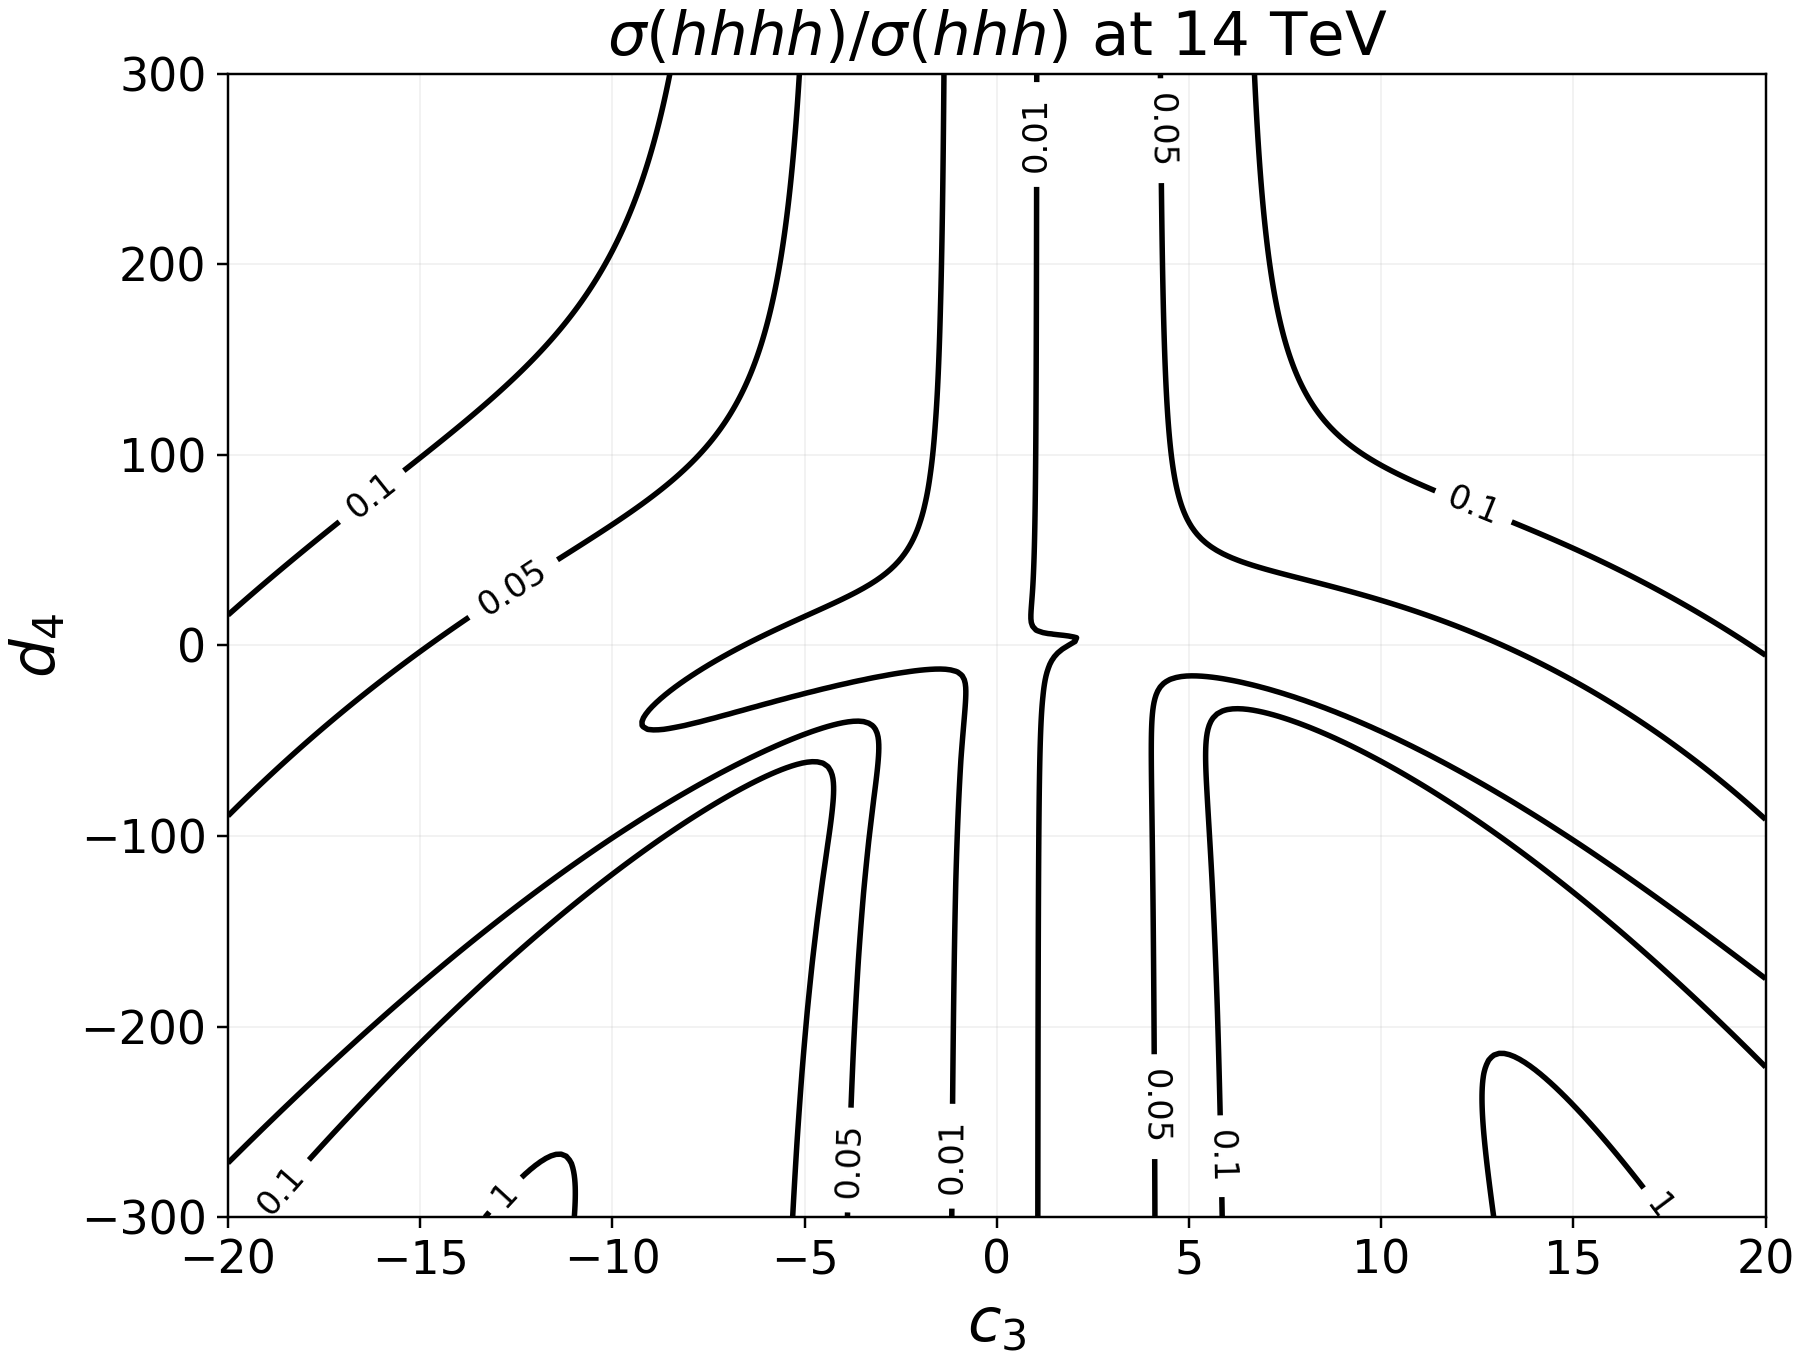
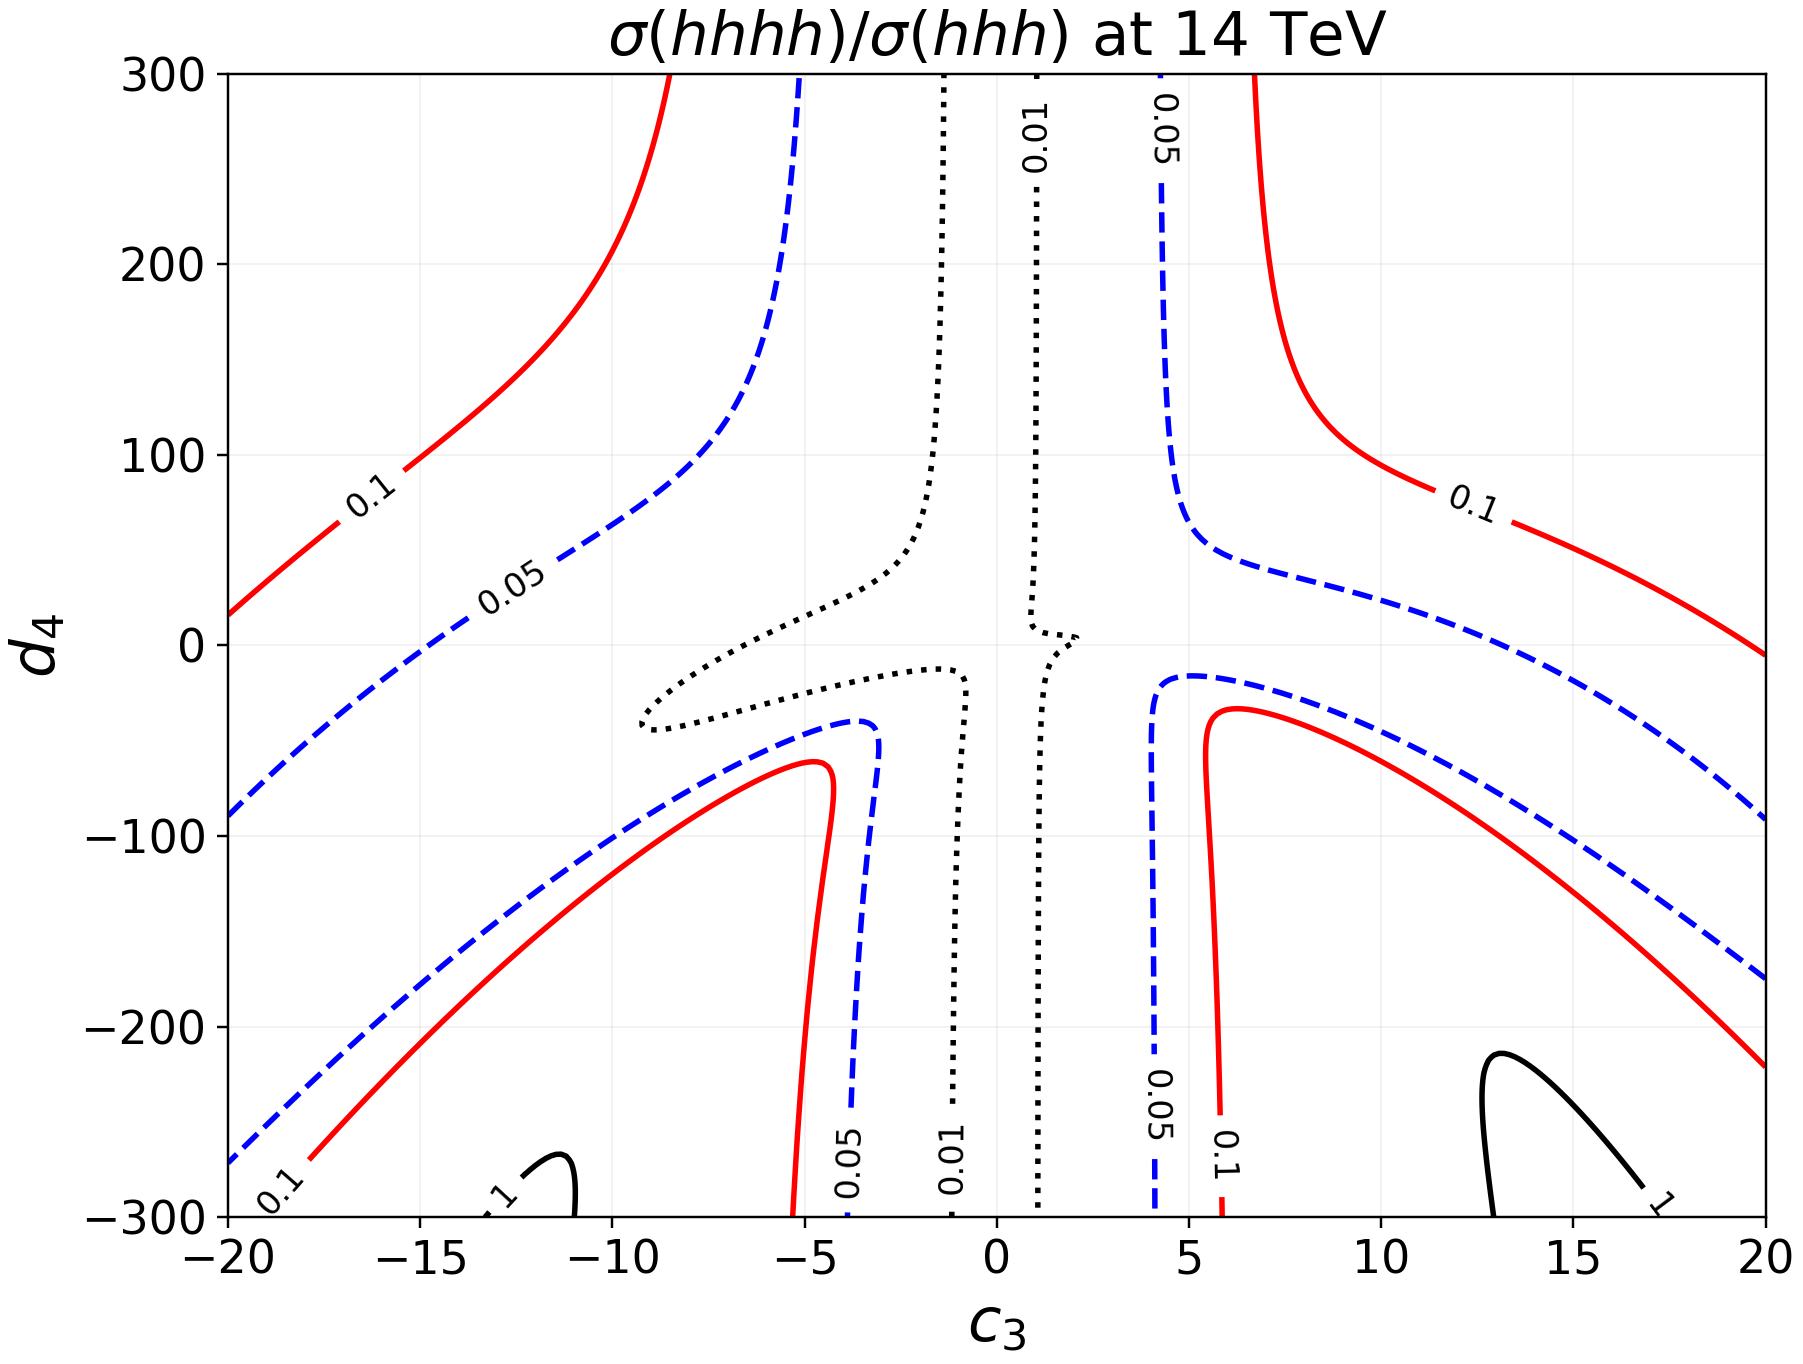
Style ratio contour levels

diff --git a/Code/xgboost_root_varfiles_module.py b/Code/xgboost_root_varfiles_module.py
@@ -1770,6 +1770,12 @@ DEFAULT_HHH_XSEC_WIDE_RUNNUM = "3"
 DEFAULT_HHH_XSEC_EXPECTED_WIDE_RUNS = 11
 DEFAULT_HHH_XSEC_EXCLUDED_RUNNUMS = ("1",)
 DEFAULT_HHHH_OVER_HHH_RATIO_LEVELS = (0.01, 0.05, 0.1, 1.0, 10.0)
+DEFAULT_HHHH_OVER_HHH_RATIO_CONTOUR_STYLES = {
+    0.01: {"color": "black", "linestyle": "dotted"},
+    0.05: {"color": "blue", "linestyle": "dashed"},
+    0.1: {"color": "red", "linestyle": "solid"},
+}
+DEFAULT_HHHH_OVER_HHH_RATIO_FALLBACK_CONTOUR_STYLE = {"color": "black", "linestyle": "solid"}
 DEFAULT_HBB_BRANCHING_RATIO = 0.5824
 DEFAULT_HHHH_PERTURBATIVITY_MH = 125.0
 DEFAULT_HHHH_PERTURBATIVITY_V = 246.0
@@ -2433,6 +2439,13 @@ def _format_hhhh_xsec_level(value):
     return "%.2g" % value
 
 
+def _hhhh_over_hhh_ratio_contour_style(level):
+    style = DEFAULT_HHHH_OVER_HHH_RATIO_CONTOUR_STYLES.get(float(level))
+    if style is None:
+        style = DEFAULT_HHHH_OVER_HHH_RATIO_FALLBACK_CONTOUR_STYLE
+    return dict(style)
+
+
 def _hhhh_perturbativity_partial_wave(s, c3_grid, d4_grid):
     k3_squared = (1.0 + c3_grid) ** 2
     k4 = 1.0 + d4_grid
@@ -2999,12 +3012,16 @@ def _write_hhhh_over_hhh_ratio_contour_plot(
         ax.grid(alpha=0.2, linewidth=0.5)
 
         if visible_levels:
+            contour_styles = [_hhhh_over_hhh_ratio_contour_style(level) for level in visible_levels]
+            contour_colors = [style["color"] for style in contour_styles]
+            contour_linestyles = [style["linestyle"] for style in contour_styles]
             contour = ax.contour(
                 c3_grid,
                 d4_grid,
                 ratio_masked,
                 levels=visible_levels,
-                colors=["black"],
+                colors=contour_colors,
+                linestyles=contour_linestyles,
                 linewidths=1.8,
             )
             ax.clabel(
@@ -3035,6 +3052,10 @@ def _write_hhhh_over_hhh_ratio_contour_plot(
                 "ratio_max": ratio_max,
                 "contour_levels_requested": [float(level) for level in ratio_levels],
                 "contour_levels_drawn": visible_levels,
+                "contour_level_styles": {
+                    _format_hhhh_xsec_level(level): _hhhh_over_hhh_ratio_contour_style(level)
+                    for level in visible_levels
+                },
                 "positive_finite_grid_points": int(np.count_nonzero(valid_ratio)),
                 "grid_points": int(ratio.size),
             }

diff --git a/tests/test_xsec_overlay_band_wiring.py b/tests/test_xsec_overlay_band_wiring.py
@@ -151,6 +151,9 @@ class HHHHXsecOverlayBandWiringTests(unittest.TestCase):
         analyzer_text = (REPO_DIR / "4h_analyzer.py").read_text()
         self.assertIn("DEFAULT_HHH_XSEC_SOURCE_DIR", module_text)
         self.assertIn("DEFAULT_HHHH_OVER_HHH_RATIO_LEVELS = (0.01, 0.05, 0.1, 1.0, 10.0)", module_text)
+        self.assertIn('0.01: {"color": "black", "linestyle": "dotted"}', module_text)
+        self.assertIn('0.05: {"color": "blue", "linestyle": "dashed"}', module_text)
+        self.assertIn('0.1: {"color": "red", "linestyle": "solid"}', module_text)
         self.assertIn("/mnt/ssd2/Projects/4H/MG5_aMC_v3_5_15/gg_hhh_c3d4", module_text)
         self.assertIn("c3d4_hhhh_over_hhh_ratio_contours.png", module_text)
         self.assertIn("c3d4_hhhh_8b_over_hhh_6b_ratio_contours.png", module_text)
@@ -176,6 +179,8 @@ class HHHHXsecOverlayBandWiringTests(unittest.TestCase):
         }
         self.assertIn("contour", called_attrs)
         self.assertNotIn("contourf", called_attrs)
+        self.assertIn("colors=contour_colors", module_text)
+        self.assertIn("linestyles=contour_linestyles", module_text)
 
         string_constants = [
             node.value
